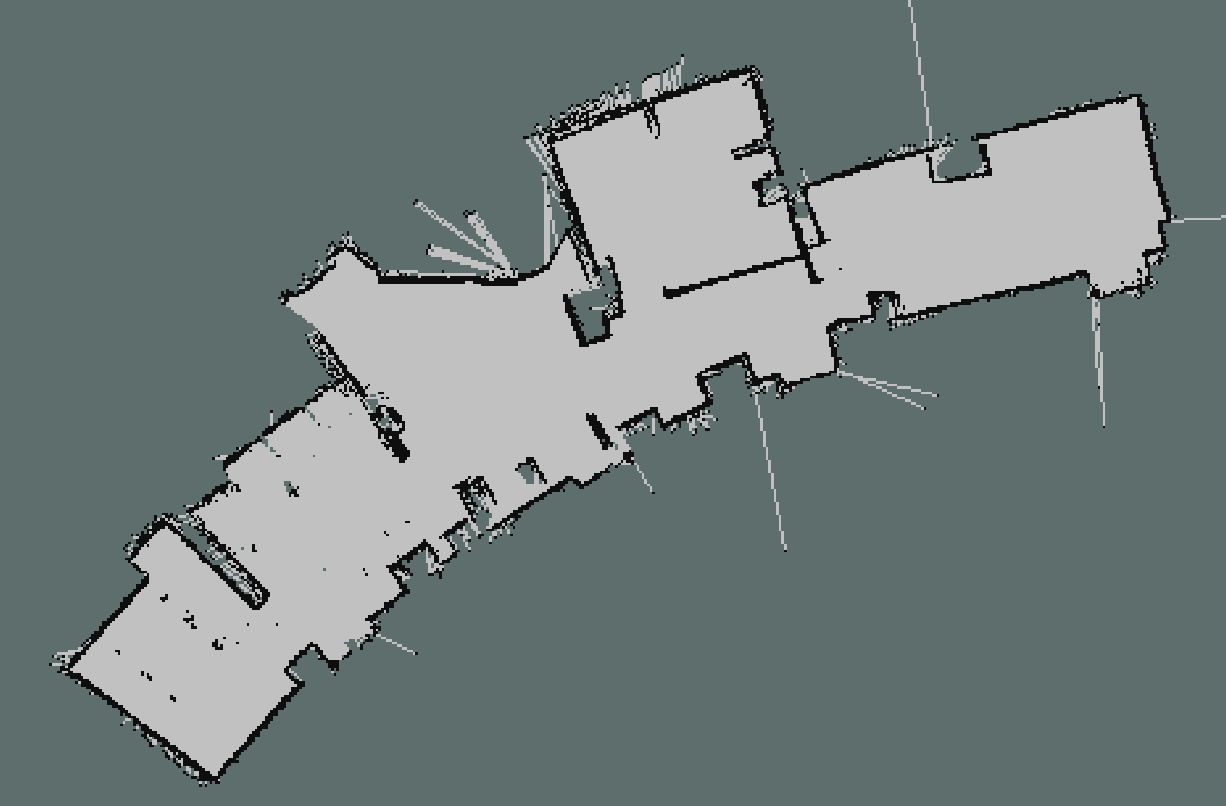
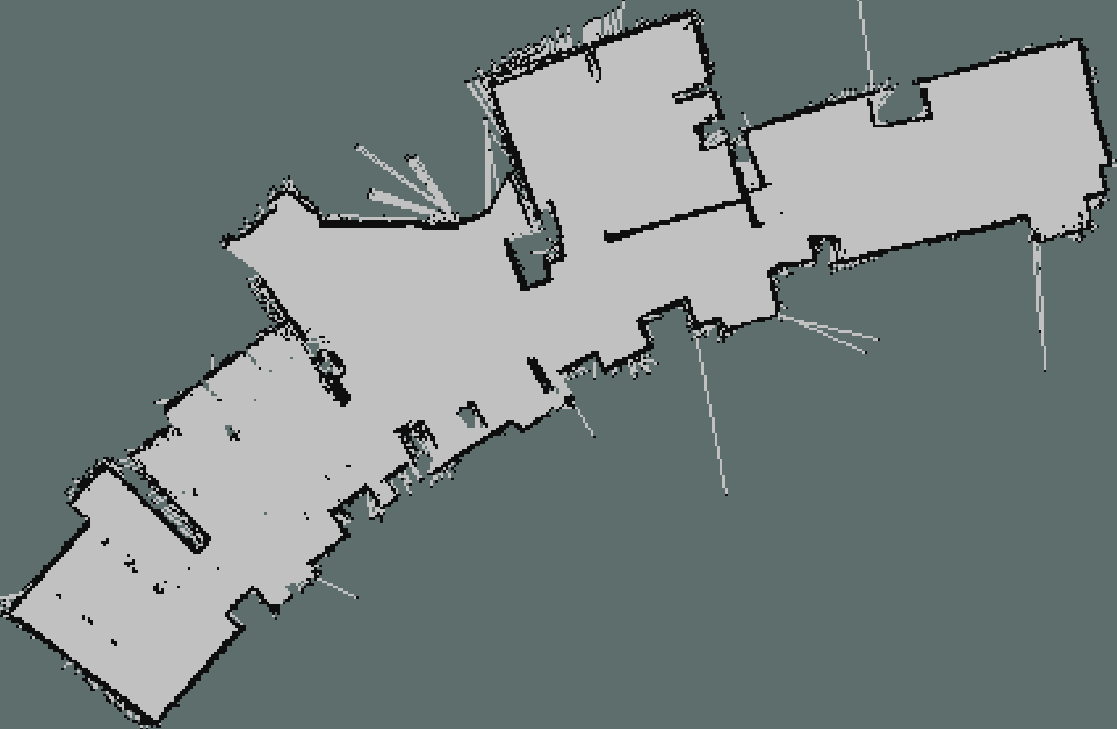
Playing around with the rviz call

Changed region(s): [[0.0, 0.0, 1.0, 1.0], [0.2131, 0.6036, 0.2435, 0.6337]]

diff --git a/particle_filter/scripts/pf_level2.py b/particle_filter/scripts/pf_level2.py
@@ -212,7 +212,7 @@ class ParticleFilter:
         self.odom_frame = "odom"  # the name of the odometry coordinate frame
         self.scan_topic = "scan"  # the topic where we will get laser scans from
 
-        self.n_particles = 30  # the number of particles to use
+        self.n_particles = 100  # the number of particles to use
 
         self.d_thresh = 0.2  # the amount of linear movement before performing an update
         self.a_thresh = math.pi / 6  # the amount of angular movement before performing an update
@@ -295,9 +295,12 @@ class ParticleFilter:
             dy = dr * math.sin(dmean_angle)
 
             # update the mean (add deltas)
-            particle.x += delta[0] + dx
-            particle.y += delta[1] + dy
-            particle.theta += delta[2] + dorient_angle
+            particle.x += delta[0]
+            particle.y += delta[1]
+            particle.theta += delta[2]
+            # particle.x += delta[0] + dx
+            # particle.y += delta[1] + dy
+            # particle.theta += delta[2] + dorient_angle
 
         # For added difficulty: Implement sample_motion_odometry (Prob Rob p 136)
 
@@ -396,10 +399,10 @@ class ParticleFilter:
         self.particle_cloud = []
         map_info = self.occupancy_field.map.info
         for i in range(self.n_particles):
-            x = random_sample()* map_info.width * map_info.resolution * 0.08 
+            x = random_sample()* map_info.width * map_info.resolution * 0.5
             if random_sample() > 0.5:
                 x = -x
-            y = random_sample()* map_info.height * map_info.resolution * 0.08 
+            y = random_sample()* map_info.height * map_info.resolution * 0.5 
             if random_sample() > 0.5:
                 y = -y
             theta = random_sample() * math.pi*2
